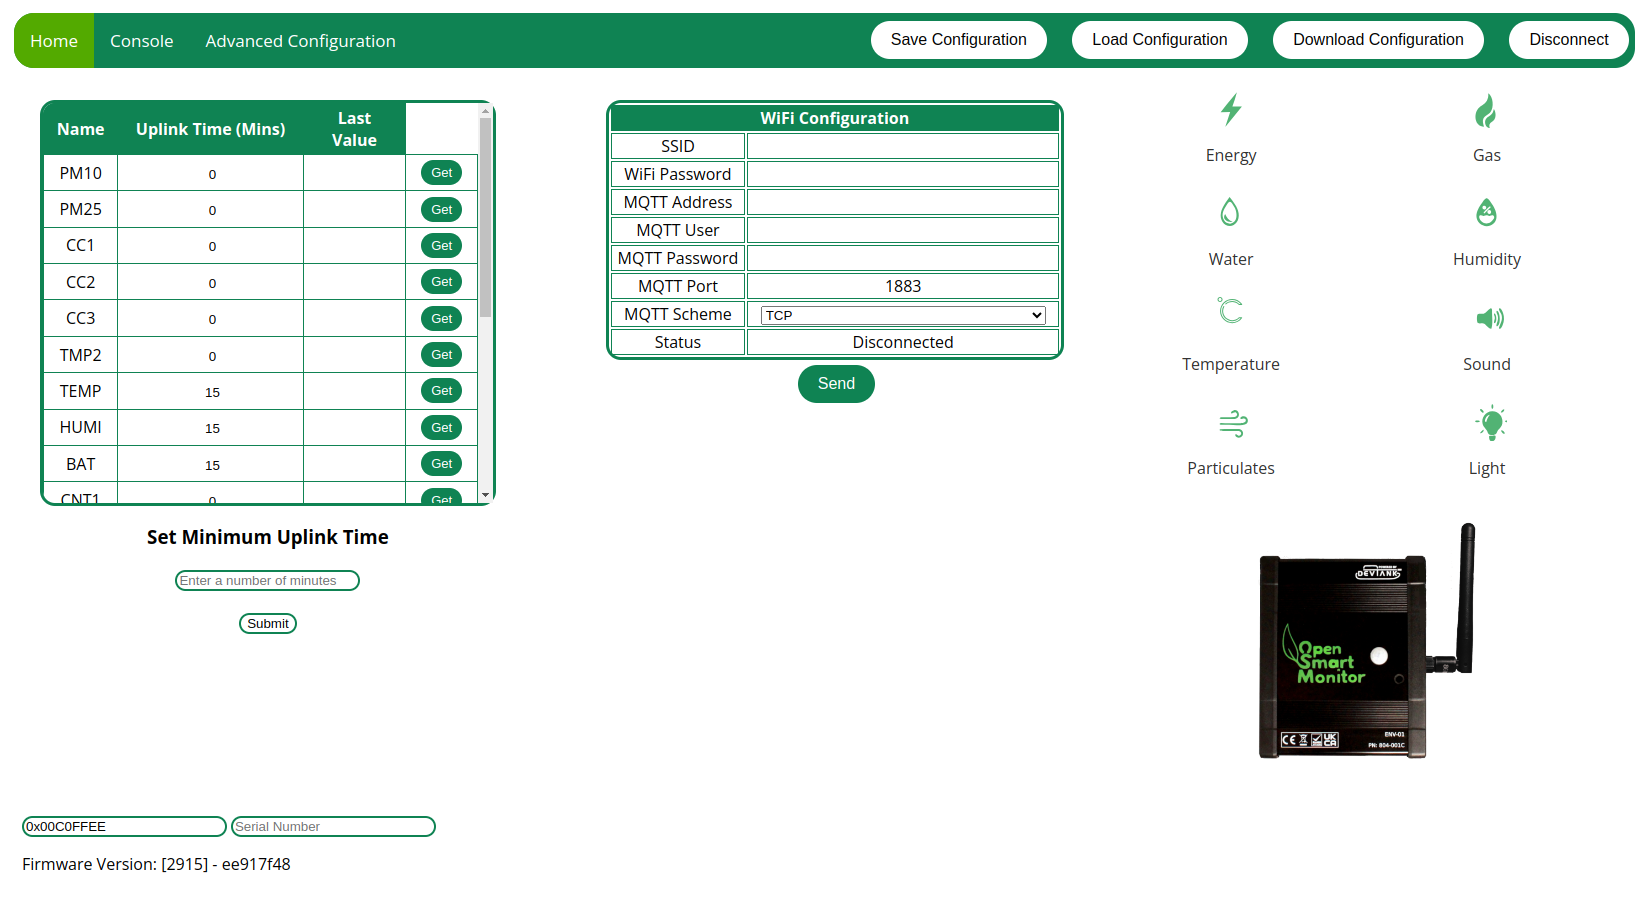
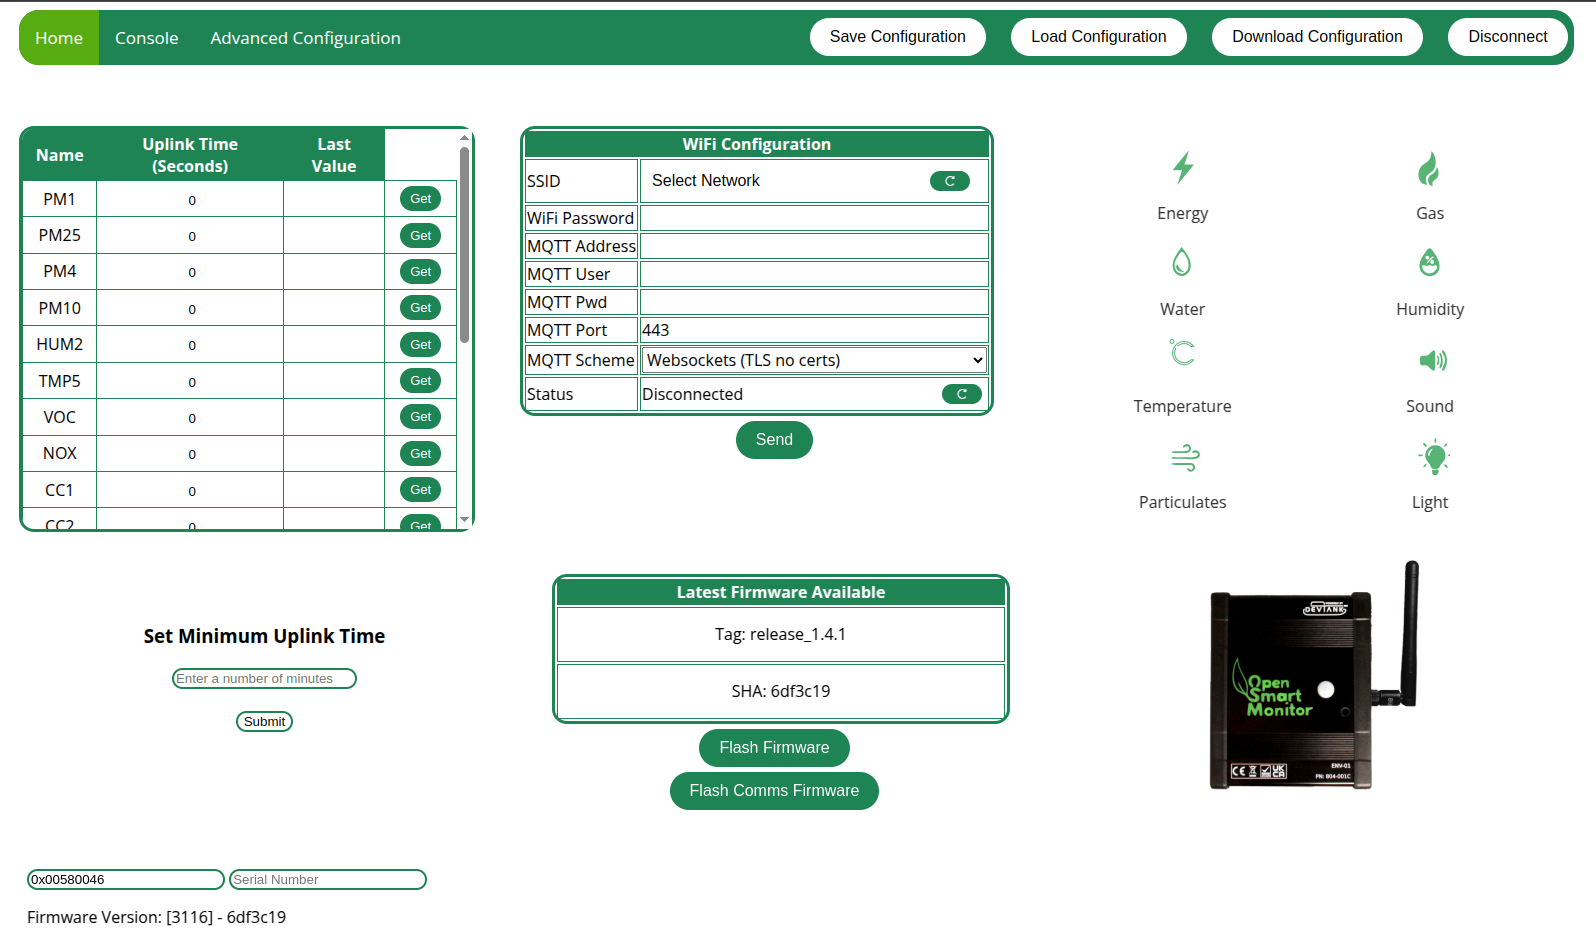
Update config gui manual.

diff --git a/docs/osm_config_gui_manual.tex b/docs/osm_config_gui_manual.tex
@@ -151,6 +151,7 @@ To update the configuration of a Wi-Fi enabled OSM:
 	\item Edit the rest of the text fields in this table to update the OSM's configuration.
 	\item . Press `Send' when you are happy with your changes.
 	\item Press `Save Configuration' which is located in the navigation bar.
+	\item Press the reload symbol in `Status' to check whether your sensor has connected.
 \end{enumerate}
 Bear in mind that spelling mistakes and accidental extra whitespace may cause connection issues, so ensure that you have entered information precisely.
 
@@ -249,9 +250,7 @@ To configure the measurements table:
 
 If the SHA in the `Latest Firmware Available' doesn't match the SHA in the `Firmware Version' label in the bottom left of the page, this means you have outdated firmware. The image above shows the firmware versions do match as they are both `adc4842'.
 
-You can update the OSM's firmware by pressing `Flash Firmware'. It's important to download the configuration of your OSM before doing this because you may lose some settings during the firmware update.
-
-Once the firmware update has finished, the page will reload and you will have to reconnect. Check your version now matches the SHA in the table.
+You can update the OSM's firmware by pressing `Flash Firmware', once the firmware update has finished, the page will reload and you will have to reconnect. Check your version now matches the SHA in the table.
 
 \newpage
 \section{Update Communication Module Firmware}
